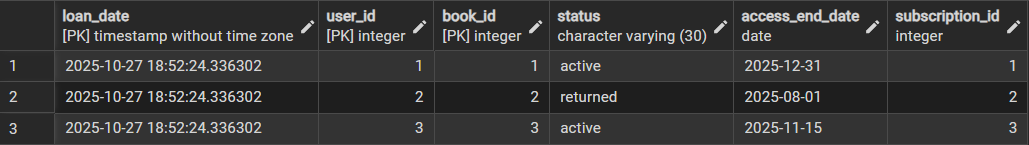
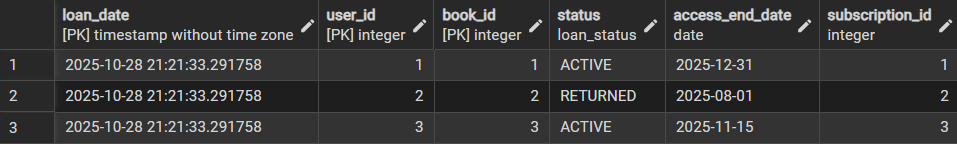
add ENUM types, NOT NULL constraints, password hashing

diff --git a/lab2/README.md b/lab2/README.md
@@ -4,43 +4,77 @@
 
 ## 🧱 SQL-схема бази даних
 
+#### ENUM Types
+```sql
+CREATE TYPE subscription_status AS ENUM (
+	'ACTIVE',
+	'EXPIRED',
+	'CANCELLED'
+);
+
+CREATE TYPE subscription_type AS ENUM (
+	'TRIAL',
+	'STANDARD',
+	'PREMIUM'
+);
+
+CREATE TYPE payment_status AS ENUM (
+	'COMPLETED',
+	'PENDING',
+	'FAILED'
+);
+
+CREATE TYPE payment_type AS ENUM (
+	'CARD',
+	'PAYPAL',
+	'CRYPTO'
+);
+
+CREATE TYPE loan_status AS ENUM (
+	'ACTIVE',
+	'RETURNED',
+	'EXPIRED'
+);
+```
+
 #### User
 ```sql
-CREATE TABLE "User" (
+CREATE TABLE IF NOT EXISTS "User" (
     user_id SERIAL PRIMARY KEY,
     name VARCHAR(100) NOT NULL,
     surname VARCHAR(100) NOT NULL,
     email VARCHAR(150) UNIQUE NOT NULL,
-    password VARCHAR(255) NOT NULL,
+    password_hash VARCHAR(255) NOT NULL,
     birth_date DATE,
     registration_date TIMESTAMP DEFAULT CURRENT_TIMESTAMP
 );
 
-INSERT INTO "User" (name, surname, email, password, birth_date, registration_date) VALUES
-('Ivan', 'Petrenko', 'ivan.petrenko@example.com', 'pass123', '1998-04-21', NOW()),
-('Anna', 'Kovalenko', 'anna.kovalenko@example.com', 'pass456', '2000-12-10', NOW()),
-('Dmytro', 'Shevchenko', 'dmytro.shevchenko@example.com', 'pass789', '1995-08-05', NOW());
+INSERT INTO "User" (name, surname, email, password_hash, birth_date, registration_date) VALUES
+('Ivan', 'Petrenko', 'ivan.petrenko@example.com', '$2a$12$bqED1wKkFHhe.jOJpVEJBe.fFdlZPYkaL2XHCmFZjORQH1vLrBZ0W', '1998-04-21', NOW()),
+('Anna', 'Kovalenko', 'anna.kovalenko@example.com', '$2a$12$Oyu9t85nLdOIF3AhKEtsne9vRBIAKEwQvZwtVo7lWZuwA6nzPcqB6', '2000-12-10', NOW()),
+('Dmytro', 'Shevchenko', 'dmytro.shevchenko@example.com', '$2a$12$jNogN/Ze0ZAgBK0S1P/7q.FWqwvJ9G4kmO7gyFmTx7WDJihXW22e.', '1995-08-05', NOW());
 ```
+
 #### Subscription
 ```sql
-CREATE TABLE Subscription (
+CREATE TABLE IF NOT EXISTS Subscription (
     subscription_id SERIAL PRIMARY KEY,
-    user_id INT REFERENCES "User"(user_id) ON DELETE CASCADE,
+    user_id INT NOT NULL REFERENCES "User"(user_id) ON DELETE CASCADE,
     start_date DATE NOT NULL,
-    end_date DATE,
-    type VARCHAR(50) NOT NULL,
-    status VARCHAR(30) CHECK (status IN ('active','expired','cancelled')) NOT NULL
+    end_date DATE NOT NULL,
+    type subscription_type NOT NULL,
+    status subscription_status NOT NULL
 );
 
 INSERT INTO Subscription (user_id, start_date, end_date, type, status) VALUES
-(1, '2025-01-01', '2025-12-31', 'Premium', 'active'),
-(2, '2025-03-01', '2025-09-01', 'Standard', 'expired'),
-(3, '2025-06-15', NULL, 'Trial', 'active');
+(1, '2025-01-01', '2025-12-31', 'PREMIUM', 'ACTIVE'),
+(2, '2025-03-01', '2025-09-01', 'STANDARD', 'EXPIRED'),
+(3, '2025-10-15', '2025-11-15', 'TRIAL', 'ACTIVE');
 ```
 
 #### Publisher
 ```sql
-CREATE TABLE Publisher (
+CREATE TABLE IF NOT EXISTS Publisher (
     publisher_id SERIAL PRIMARY KEY,
     name VARCHAR(150) NOT NULL,
     country VARCHAR(100),
@@ -55,11 +89,11 @@ INSERT INTO Publisher (name, country, founded_date) VALUES
 
 #### Book
 ```sql
-CREATE TABLE Book (
+CREATE TABLE IF NOT EXISTS Book (
     book_id SERIAL PRIMARY KEY,
     publisher_id INT REFERENCES Publisher(publisher_id) ON DELETE SET NULL,
     name VARCHAR(200) NOT NULL,
-    isbn VARCHAR(20) UNIQUE,
+    isbn VARCHAR(20) UNIQUE NOT NULL,
     publication_date DATE,
     pages_count INT CHECK (pages_count > 0)
 );
@@ -72,7 +106,7 @@ INSERT INTO Book (publisher_id, name, isbn, publication_date, pages_count) VALUE
 
 #### Author
 ```sql
-CREATE TABLE Author (
+CREATE TABLE IF NOT EXISTS Author (
     author_id SERIAL PRIMARY KEY,
     name VARCHAR(100) NOT NULL,
     surname VARCHAR(100) NOT NULL,
@@ -88,7 +122,7 @@ INSERT INTO Author (name, surname, birth_date, country) VALUES
 
 #### Genre
 ```sql
-CREATE TABLE Genre (
+CREATE TABLE IF NOT EXISTS Genre (
     genre_id SERIAL PRIMARY KEY,
     name VARCHAR(100) UNIQUE NOT NULL,
     description TEXT
@@ -102,45 +136,45 @@ INSERT INTO Genre (name, description) VALUES
 
 #### Payment
 ```sql
-CREATE TABLE Payment (
+CREATE TABLE IF NOT EXISTS Payment (
     payment_id SERIAL PRIMARY KEY,
-    user_id INT REFERENCES "User"(user_id) ON DELETE CASCADE,
-    subscription_id INT REFERENCES Subscription(subscription_id) ON DELETE CASCADE,
+    user_id INT NOT NULL REFERENCES "User"(user_id) ON DELETE CASCADE,
+    subscription_id INT NOT NULL REFERENCES Subscription(subscription_id) ON DELETE CASCADE,
     amount NUMERIC(8,2) CHECK (amount > 0),
     payment_date TIMESTAMP DEFAULT CURRENT_TIMESTAMP,
-    payment_type VARCHAR(50) CHECK (payment_type IN ('card','paypal','bank')),
-    status VARCHAR(30) CHECK (status IN ('completed','pending','failed'))
+    payment_type payment_type NOT NULL,
+    status payment_status NOT NULL
 );
 
 INSERT INTO Payment (user_id, subscription_id, amount, payment_type, status) VALUES
-(1, 1, 199.99, 'card', 'completed'),
-(2, 2, 99.50, 'paypal', 'completed'),
-(3, 3, 0.00, 'card', 'pending'); //error (amount > 0)
+(1, 1, 199.99, 'CARD', 'COMPLETED'),
+(2, 2, 99.50, 'PAYPAL', 'COMPLETED'),
+(3, 3, 50.00, 'CARD', 'PENDING');
 ```
 
 #### Loan
 ```sql
-CREATE TABLE Loan (
+CREATE TABLE IF NOT EXISTS Loan (
     loan_date TIMESTAMP DEFAULT CURRENT_TIMESTAMP,
-    user_id INT REFERENCES "User"(user_id) ON DELETE CASCADE,
-    book_id INT REFERENCES Book(book_id) ON DELETE CASCADE,
-    status VARCHAR(30) CHECK (status IN ('active','returned','expired')) NOT NULL,
+    user_id INT NOT NULL REFERENCES "User"(user_id) ON DELETE CASCADE,
+    book_id INT NOT NULL REFERENCES Book(book_id) ON DELETE CASCADE,
+    status loan_status NOT NULL,
     access_end_date DATE,
     subscription_id INT REFERENCES Subscription(subscription_id) ON DELETE SET NULL,
     PRIMARY KEY (loan_date, user_id, book_id)
 );
 
 INSERT INTO Loan (user_id, book_id, status, access_end_date, subscription_id) VALUES
-(1, 1, 'active', '2025-12-31', 1),
-(2, 2, 'returned', '2025-08-01', 2),
-(3, 3, 'active', '2025-11-15', 3);
+(1, 1, 'ACTIVE', '2025-12-31', 1),
+(2, 2, 'RETURNED', '2025-08-01', 2),
+(3, 3, 'ACTIVE', '2025-11-15', 3);
 ```
 
 #### BookAuthor
 ```sql
-CREATE TABLE BookAuthor (
-    book_id INT REFERENCES Book(book_id) ON DELETE CASCADE,
-    author_id INT REFERENCES Author(author_id) ON DELETE CASCADE,
+CREATE TABLE IF NOT EXISTS BookAuthor (
+    book_id INT NOT NULL REFERENCES Book(book_id) ON DELETE CASCADE,
+    author_id INT NOT NULL REFERENCES Author(author_id) ON DELETE CASCADE,
     PRIMARY KEY (book_id, author_id)
 );
 
@@ -152,9 +186,9 @@ INSERT INTO BookAuthor (book_id, author_id) VALUES
 
 #### BookGenre
 ```sql
-CREATE TABLE BookGenre (
-    book_id INT REFERENCES Book(book_id) ON DELETE CASCADE,
-    genre_id INT REFERENCES Genre(genre_id) ON DELETE CASCADE,
+CREATE TABLE IF NOT EXISTS BookGenre (
+    book_id INT NOT NULL REFERENCES Book(book_id) ON DELETE CASCADE,
+    genre_id INT NOT NULL REFERENCES Genre(genre_id) ON DELETE CASCADE,
     PRIMARY KEY (book_id, genre_id)
 );
 
